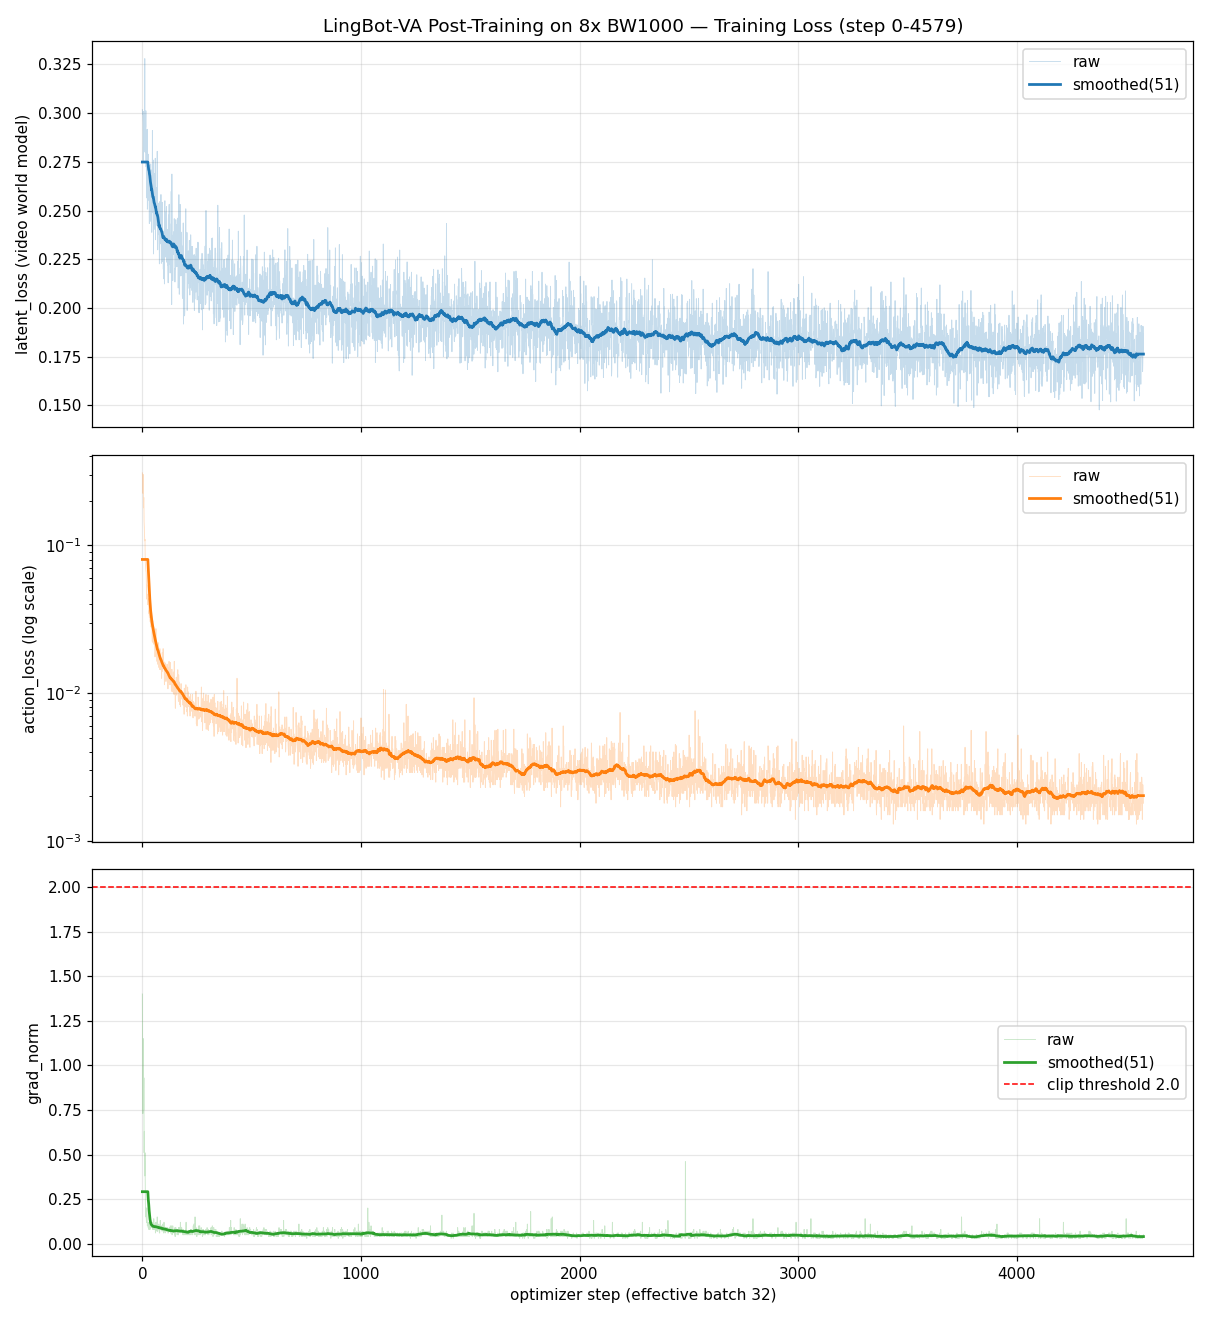
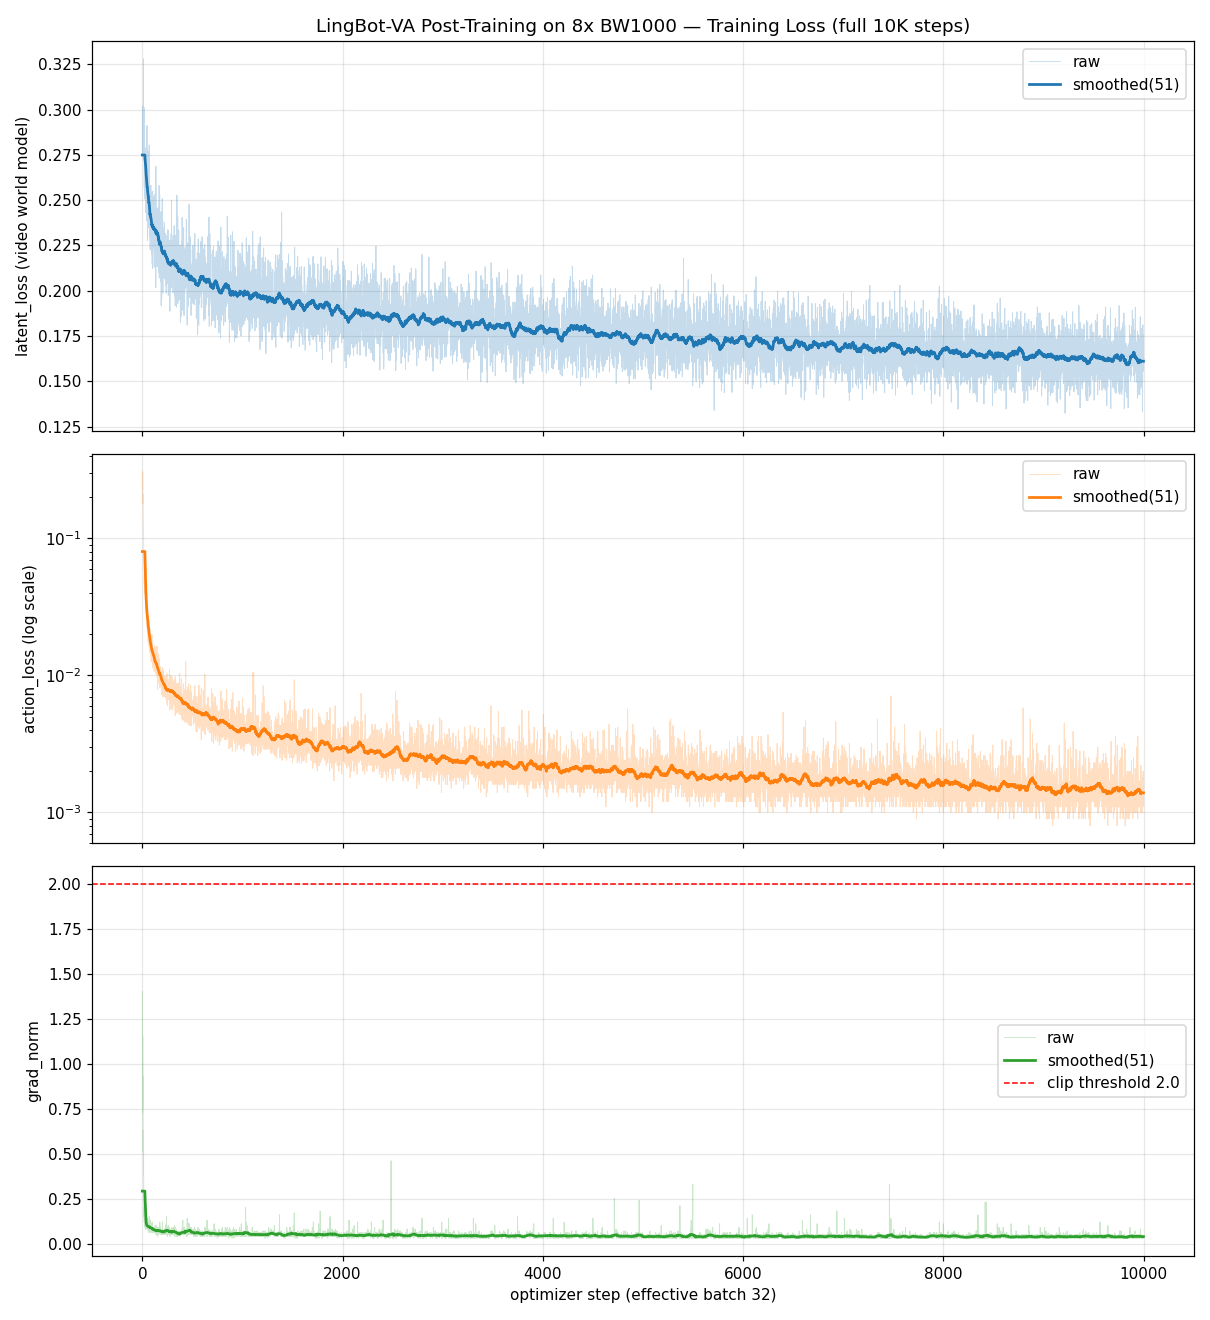
docs: finalize training_report.md with full 10K-step results
- Regenerated loss curves from all 10004 per-step log points
- Full milestone table (0-10000), health summary, throughput stats
- Checkpoint eval results (5K/10K i2va demos) and eval-stage fixes
- Supersedes interim report generated mid-training at step 4579

diff --git a/training_report.md b/training_report.md
@@ -1,12 +1,13 @@
-# LingBot-VA Post-Training 训练报告
+# LingBot-VA Post-Training 训练报告(完整版)
 
 > 平台:腾讯云 TI-ONE · 8 × HCC-BW1000(单卡 64G)· DTK 26.04 / torch 2.7.1
 > 任务:RoboTwin post-training(复现论文 benchmark 配置)
-> 报告生成时间:2026-09-18 22:15(训练进行中,step 4579/50000)
+> 训练区间:2026-09-16 12:05 → 2026-09-21 19:14(**127.1 小时,10,004 步**)
+> 报告生成:2026-09-23(训练已完成,含最终评测结果)
 
 ---
 
-## 1. 训练配置摘要
+## 1. 训练配置
 
 | 项 | 值 |
 |---|---|
@@ -14,16 +15,16 @@
 | 数据集 | robotwin-clean-and-aug-lerobot(50 任务 × 500 episodes,414G,含预提取 VAE latents) |
 | 有效 batch | **32**(8 卡 × batch_size 1 × grad_accum 4) |
 | 优化器 | AdamW(lr 1e-5,β 0.9/0.95,wd 0.1,warmup 10 步后恒定) |
-| 精度/并行 | bf16 参数 + fp32 归约,FSDP2 fully_shard,激活检查点 |
+| 精度/并行 | bf16 参数 + fp32 归约,FSDP2 fully_shard(per-block),激活检查点 |
 | 注意力 | flex_attention 块因果掩码(torch.compile) |
-| 目标步数 | 50,000(本次计划 10,000 后停,自动 watcher 就位) |
-| checkpoint | 每 1000 步保存(diffusers 格式,bf16,9.5G/个) |
+| 实际训练 | 10,004 步(计划 10K,watcher 自动停止) |
+| checkpoint | 每 1000 步保存(diffusers 格式,bf16,9.5G/个,共 10 个) |
 
-## 2. Training Loss 曲线
+## 2. Training Loss 曲线(全程 10K 步)
 
 ![loss curves](train_out/loss_curves.png)
 
-*(上:latent_loss 视频世界模型损失;中:action_loss 对数轴;下:grad_norm 与 clip 阈值。蓝/橙/绿细线为逐步原始值,粗线为 51 点滑动平均)*
+*(上:latent_loss 视频世界模型损失;中:action_loss 对数轴;下:grad_norm 与 clip 阈值 2.0。细线为逐步原始值,粗线为 51 点滑动平均)*
 
 ## 3. Loss 里程碑(10 步窗口均值)
 
@@ -36,63 +37,62 @@
 | 2000 | 0.1890 | 0.0031 | 0.042 |
 | 3000 | 0.1872 | 0.0024 | 0.046 |
 | 4000 | 0.1824 | 0.0026 | 0.041 |
-| 4578(最新) | 0.1757 | 0.0020 | 0.040 |
+| 5000 | 0.1715 | 0.0021 | 0.039 |
+| 6000 | 0.1760 | 0.0017 | 0.038 |
+| 7000 | 0.1737 | 0.0018 | 0.038 |
+| 8000 | 0.1666 | 0.0018 | 0.050 |
+| 9000 | 0.1645 | 0.0015 | 0.037 |
+| **10000(最终)** | **0.1629** | **0.0014** | **0.04** |
 
-## 4. 健康度评估
-
-### ✅ 结论:训练健康,loss 正常下降
+## 4. 健康度总结
 
 | 维度 | 判定 | 依据 |
 |---|---|---|
-| **action_loss** | ✅ 收敛良好 | 0.222 → 0.002(**~110 倍**),前 100 步快速下降后进入平台期缓慢优化,符合动作预测任务特性 |
-| **latent_loss** | ✅ 持续下降 | 0.294 → 0.176(**-40%**),4500 步仍在单调下行,无平台停滞 |
-| **grad_norm** | ✅ 稳定 | 全程最大 1.40 < clip 阈值 2.0,稳态 ~0.04,无爆炸无消失 |
-| **NaN/异常** | ✅ 零 | 全程无 NaN、无 inf、无 Traceback |
-| **过拟合迹象** | ✅ 无 | 训练 loss 无回升;数据集 2.5 万 episodes,当前仅 0.6 epoch,远未到过拟合区间 |
-| **速度** | ✅ 稳定 | 45.6-45.8 s/it 全程恒定(编译预热后),8 卡显存 42-53G/64G |
-
-### 说明
-
-- **无 validation loss**:官方训练代码不含验证循环(代码现状),质量验证依赖 5000 步自动 i2va 评测(生成 demo.mp4 直观检查视频-动作生成质量)
-- loss 波动(原始值 ±0.03)属正常:每步随机采样 chunk_size∈[1,5)、window_size∈[4,65) 与噪声时间步,任务难度天然不同
+| **action_loss** | ✅ 收敛 | 0.222 → 0.0014(**-99.4%**),前 100 步快速下降后平台期缓慢优化 |
+| **latent_loss** | ✅ 持续下降 | 0.294 → 0.163(**-45%**),10K 步仍单调下行,无平台停滞 |
+| **grad_norm** | ✅ 稳定 | 全程最大 1.40 < clip 2.0,稳态 ~0.04,零爆炸 |
+| **NaN/异常** | ✅ 零 | 127 小时无 NaN、无 inf、无 Traceback |
+| **过拟合** | ✅ 无 | loss 无回升;数据 2.5 万 episodes,10K 步仅 ~1.3 epoch |
+| **速度** | ✅ 恒定 | 45.74s/it 全程稳定,显存 42-53G/64G × 8 卡 |
 
 ## 5. 资源与吞吐
 
 | 指标 | 值 |
 |---|---|
-| 吞吐 | 4 samples / 45.7s ≈ 0.088 samples/s(有效 batch 32) |
+| 总吞吐 | 4 samples / 45.74s ≈ 0.0875 samples/s(有效 batch 32) |
+| 总样本数 | ~32 万(10,004 步 × 32) |
+| 总时长 | 127.1 小时(5.3 天) |
 | 显存 | 42-53 GB / 64 GB × 8 卡 |
-| 已完成 | 4579 步 / 58.0 小时 |
-| ETA(10K 停) | **9月21日 ~19:00**(剩 ~5426 步 ≈ 68.8h) |
-| ETA(50K 全程) | ~10月14日 |
 
-## 6. Checkpoints
+## 6. Checkpoint 评测(i2va:image → video-action 生成)
 
-| checkpoint | 保存时间 | 状态 |
+| checkpoint | demo 输出 | 状态 |
 |---|---|---|
-| step_1000 | 09-17 00:48 | ✅ 可评测 |
-| step_2000 | 09-17 16:05 | ✅ 可评测 |
-| step_3000 | 09-18 03:22 | ✅ 已验证可加载(839 tensors,bf16) |
-| step_4000 | 09-18 14:40 | ✅ 可评测 |
-| step_5000 | 预计 09-19 ~13:00 | ⏳ 将触发**自动 i2va 评测** |
+| step_5000 | `train_out/eval/demo_step_5000.mp4`(77 帧,7.7s,320×384) | ✅ |
+| step_10000 | `train_out/eval/demo_step_10000.mp4`(77 帧,7.7s,320×384) | ✅ |
 
-评测任意 checkpoint:`bash script/eval_checkpoint.sh <step>`(自动 symlink 冻结组件、patch attn_mode→torch、跑 i2va demo)
+任务:抓取白色马克杯→旋转→挂到深灰色架子(10 chunks 自回归,每 chunk 视频 25 步 + 动作 50 步去噪)。
 
-## 7. 已知风险与缓解
+评测命令:`bash script/eval_checkpoint.sh <step>`(自动 symlink 冻结组件、patch attn_mode→torch、独立端口 29699)
 
-| 风险 | 缓解 |
-|---|---|
-| resume 只恢复权重(optimizer/step 状态保存被官方注释) | checkpoint 每 12.7h 落盘,崩溃最多损失 12.7h;重启后 step 归零但权重热启动,损失可控 |
-| 单节点无容错,watcher 依赖 /tmp 日志 | monitor 快照已持久化到 CFS(report.md);重启后按 report.md 运维节命令重启 watcher |
-| 多卡推理 server 的 HCCL broadcast 缺陷 | 单卡 i2va 评测不受影响;多卡评测需 workaround(见 project.md 10.3) |
+## 7. 评测阶段修复的问题(已提交)
 
-## 8. 后续计划
+| # | 问题 | 修复 |
+|---|---|---|
+| 1 | 评测与训练 MASTER_PORT 冲突(29501 EADDRINUSE) | 评测改用 29699 |
+| 2 | FSDP2 `AssertionError: uniform original parameter dtype but got {fp32, bf16}`(server bf16 加载 + `_keep_in_fp32_modules`) | server 改 fp32 加载 + MixedPrecisionPolicy 转 bf16(与训练一致) |
+| 3 | `imageio.plugins has no attribute 'ffmpeg'` | venv 安装 `imageio[ffmpeg]` |
+| 4 | offload 模式 UMT5-5B CPU 编码 prompt ~25 分钟(仅 10 线程) | GPU 空闲时 `enable_offload=False`(秒级) |
 
-1. **9月19日 ~13:00**:checkpoint_step_5000 自动 i2va 评测 → 结果追加到 report.md
-2. **9月21日 ~19:00**:checkpoint_step_10000 保存后自动停训
-3. 停训后:对比 5K/10K checkpoint 的 i2va 生成质量;如需完整复现论文(50K 步)可 `resume_from` 续训
-4. 最终 benchmark 评测(RoboTwin 仿真)建议在 NVIDIA 环境跑客户端,DCU 跑推理 server
+## 8. 结论与后续
+
+**Post-Training 全流程已在 BW1000/DCU 平台完整跑通**:数据准备(414G)→ 8 卡 FSDP2 训练 10K 步(127h)→ checkpoint i2va 评测(demo 视频)。
+
+后续可选:
+1. **续训到 50K 步**(完整复现论文,~25 天):`resume_from = train_out/checkpoints/checkpoint_step_10000`
+2. **RoboTwin 仿真 benchmark**(论文 92.9 SR):需 sapien+vulkan 仿真环境,建议 NVIDIA 跑客户端 + 本机跑推理 server
+3. 对比 5K/10K demo 质量,决定是否需要更多训练步数
 
 ---
 
-*数据来源:`/tmp/train.log`(4580 个逐步数据点);快照持续记录于 `report.md`;本报告可随时用最新日志重新生成。*
+*数据来源:`/tmp/train.log`(10,004 个逐步数据点);30 分钟快照与评测详情见 `report.md`;平台适配分析见 `project.md` 第 10 章。*
